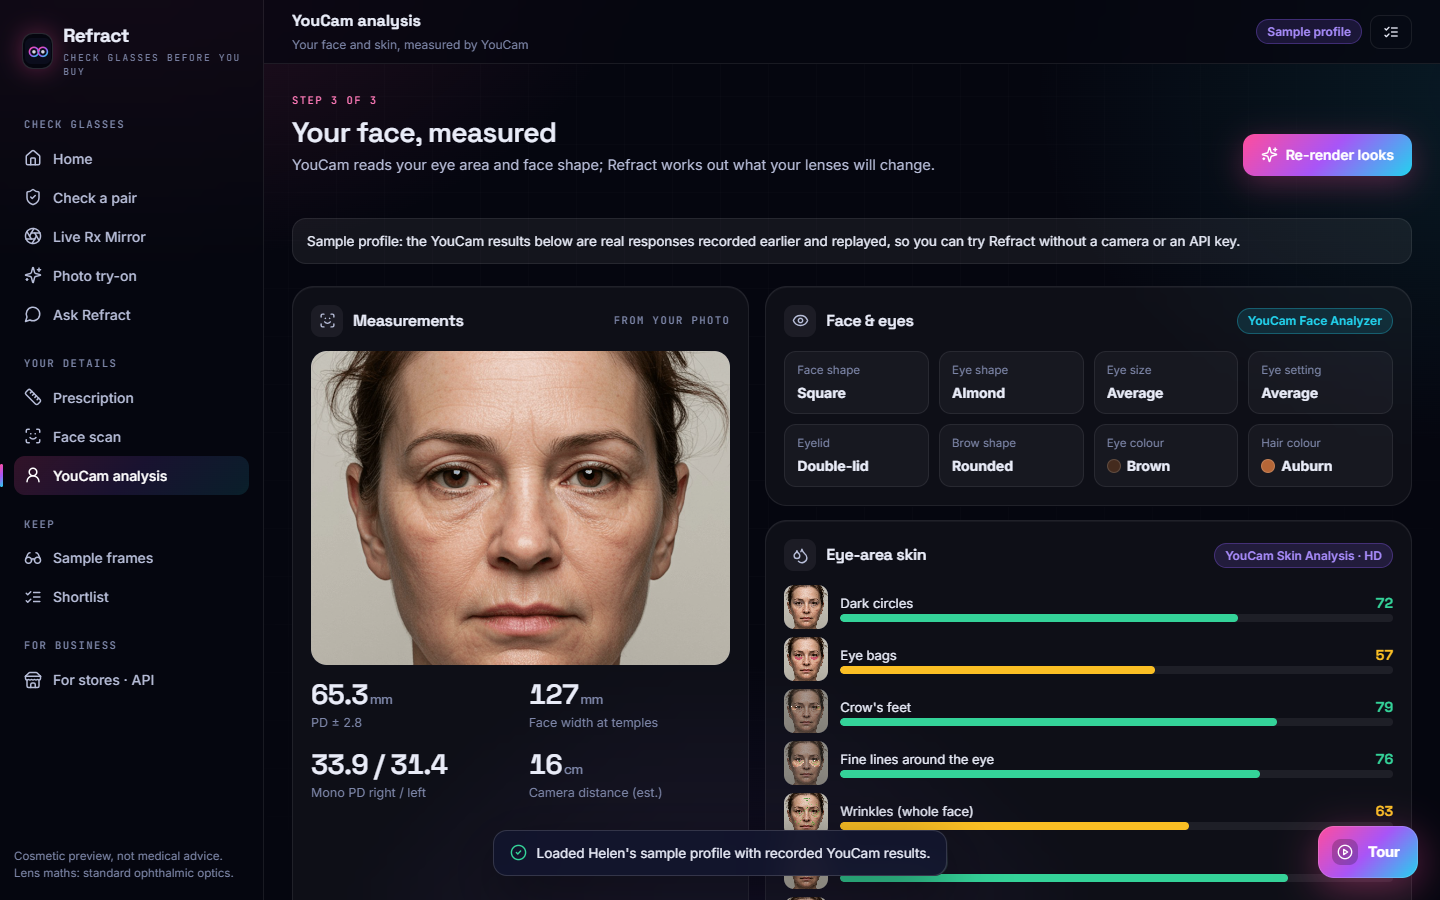
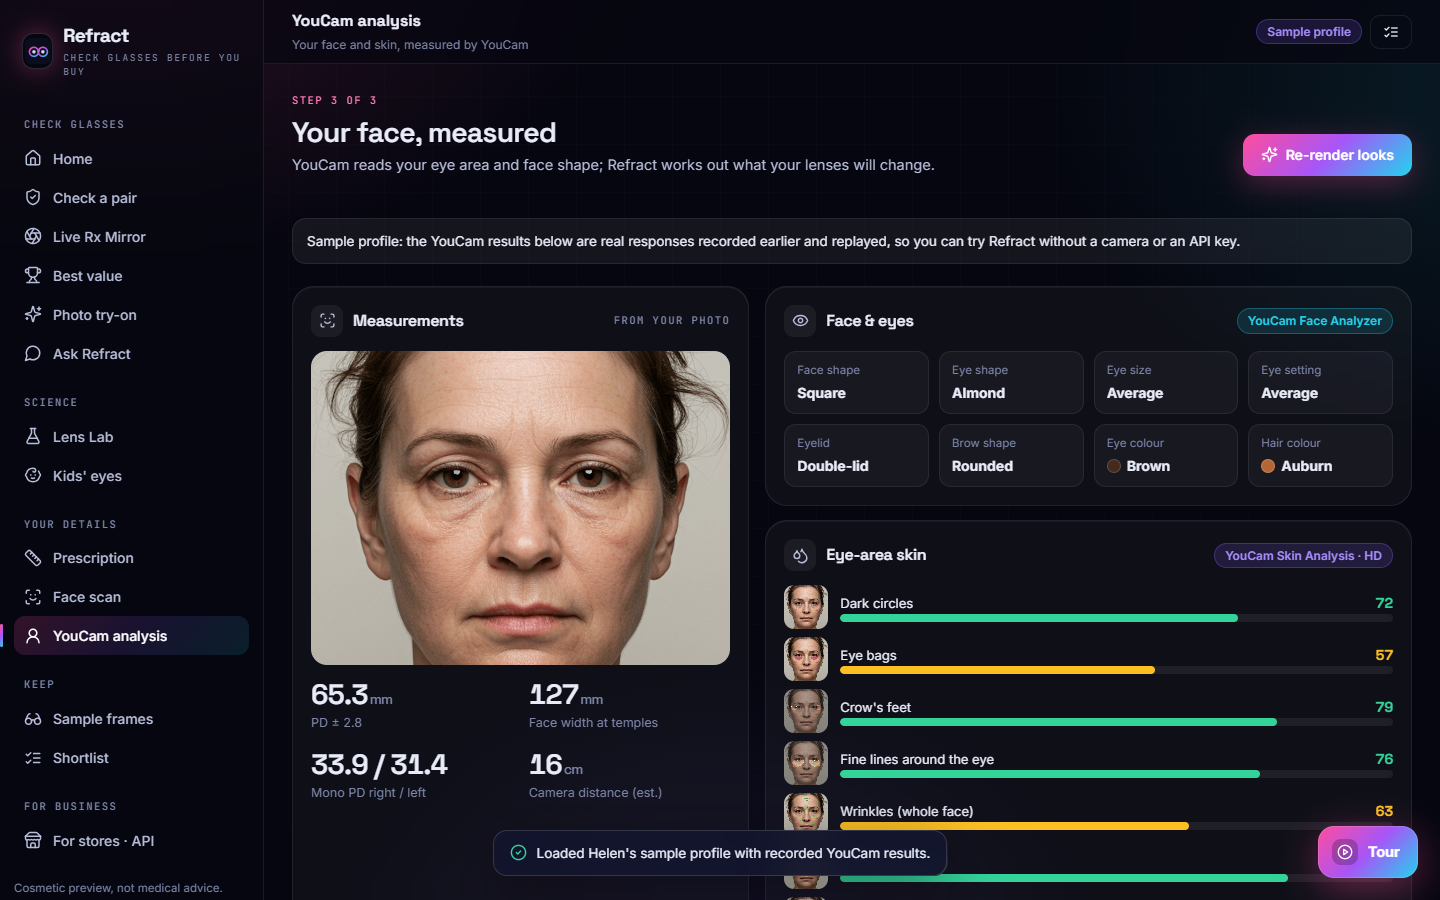
docs(v5): science section in README, constants and sources in EVIDENCE, gallery with Lens Lab, Kids' eyes, Best value, fit through the day and the science strip; static material picker

diff --git a/src/styles/lab.css b/src/styles/lab.css
@@ -1,7 +1,7 @@
 /* ---------- Lens Lab, Best value, Kids ---------- */
 .lab-svg { width: 100%; height: auto; display: block; }
 .lab-cap { font: 500 10.5px var(--font-mono); fill: var(--muted); }
-.lab-picker { display: flex; align-items: center; gap: 12px; flex-wrap: wrap; position: sticky; top: calc(var(--topbar) + 8px); z-index: 5; padding: 8px 12px; border-radius: 14px; background: rgba(5, 6, 15, 0.82); backdrop-filter: blur(10px); border: 1px solid var(--line); width: max-content; max-width: 100%; }
+.lab-picker { display: flex; align-items: center; gap: 12px; flex-wrap: wrap; padding: 8px 12px; border-radius: 14px; background: rgba(5, 6, 15, 0.82); backdrop-filter: blur(10px); border: 1px solid var(--line); width: max-content; max-width: 100%; }
 .lab-split { display: grid; grid-template-columns: minmax(0, 1.1fr) minmax(0, 1fr); gap: 22px; align-items: start; }
 .lab-split p { margin: 0; line-height: 1.6; }
 @media (max-width: 1000px) { .lab-split { grid-template-columns: minmax(0, 1fr); } }

diff --git a/docs/EVIDENCE.md b/docs/EVIDENCE.md
@@ -130,3 +130,64 @@ Frames carry "lens width □ bridge temple" on the arm (boxing system, mm). The 
 **Frame weight** is estimated per mm of lens width: metal 0.29 g, titanium 0.20 g, acetate 0.49 g (catalogue fit). Metal and titanium frames get adjustable pads; acetate gets a fixed bridge.
 
 **The bookmarklet** reads the size from the selected text, or else from the first size on the page. It reads shape and material from the selection, the page title and the `<h1>`. When no size is found, the app says so instead of guessing.
+
+## v5 science models (branch `v5-science`)
+
+Every constant below is in code (`src/engine/light.js`, `photochromic.js`, `myopia.js`, `climate.js`, `value.js`) and covered by unit tests. Where sources disagree or a value is a model assumption, it says so.
+
+### Light and lens materials (`light.js`)
+
+| Quantity | Model / value | Source |
+|---|---|---|
+| Reflection per surface | Fresnel, normal incidence: ((n−1)/(n+1))². 4.0% at 1.50, 5.3% at 1.60, 7.3% at 1.74 | Textbook optics |
+| Uncoated pair | 2R/(1+R) per lens (incoherent multiple reflections): 7.7% at 1.50, 13.6% at 1.74 | Textbook optics |
+| Thin films | Characteristic-matrix method at normal incidence | Macleod, *Thin-Film Optical Filters* |
+| AR design | Four SiO₂ (1.46) / ZrO₂ (2.05) layers, thicknesses found by coordinate descent minimizing daylight-weighted reflectance from 420 to 680 nm. Result: 0.13–0.17% per surface | Engine. Layer indices are handbook values. Trade sources give under 1% total for premium coatings |
+| Residual colour | CIE 1931 2° observer (Wyman, Sloan & Shirley 2013 multi-lobe fit), daylight as a 6504 K black body, sRGB | CIE; JCGT 2013 |
+| Dispersion | Cauchy n(λ) = A + B/λ², fitted to n_d and the Abbe number | Textbook optics |
+| Index vs Abbe | Lorentz–Lorenz: (n²−1)/(n²+2) is polarizability per volume. Sulfur and aromatic groups raise it, and the same UV-edge transitions raise dispersion | Liu & Ueda, *J Mater Chem* 2009; Mazumder et al., *ACS Omega* 2024 |
+| Materials | CR-39 1.50/58 · PC 1.59/30 · MR-8 1.60/41 · MR-7 1.67/31–32 · 1.74/32 | Mitsui MR datasheet |
+
+### Blue-light filters
+- **Evidence:** Singh et al., *Cochrane Database Syst Rev* 2023 (CD013244), 17 RCTs. They probably make no difference to short-term eye strain (low certainty). Results for sleep are inconsistent (very low certainty). There are no studies on macular health.
+- **How much they filter:** typical clear filters remove about 10–25% of blue light. Calculated phototoxicity falls by 10.6–23.6% (Leung et al., *PLoS ONE* 2017).
+
+### Photochromic lenses (`photochromic.js`)
+- **Model:**
+  - dc/dt = k_act·UV·(1−c) − k_fade(T)·c, with Arrhenius k_fade and Beer–Lambert transmission.
+  - Calibrated to Moon et al., *PLoS ONE* 2020 (12 lenses): fade half-lives of 38–198 s at 21 °C, and 2.7–5.4× slower at 6 °C.
+  - We model a fast lens: half-life 45 s at 21 °C and 261 s at 6 °C.
+- **Activation energy:** about 80 kJ/mol, because fading roughly triples per 10 °C. Dyes measured in solution give 63–82 kJ/mol. No value measured in a lens polymer was found.
+- **Windshields:** they block about 96% of UVA (Boxer Wachler, *JAMA Ophthalmol* 2016). Side windows block 44–96%.
+
+### Children's myopia (`myopia.js`)
+| Quantity | Value | Source |
+|---|---|---|
+| Progression at age 9.3, single vision | −0.82 D/yr Asian (CI 0.71–0.93), −0.55 D/yr European (0.39–0.72) | Donovan et al., *Optom Vis Sci* 2012 |
+| Slowing with age | 9.7% per year of age | Smotherman et al., *IOVS* 2023 (meta-regression abstract) |
+| Stabilization | Mean age 15.6 y, at −4.87 D. 48% stabilized by 15, 77% by 18 (logistic fit, applied from 13) | COMET, Hardy et al., *IOVS* 2013. The percentages come from a secondary source |
+| Parents | Two myopic parents meant about 1 D more at stabilization. Modelled as 13.5% faster per parent | COMET 2013 |
+| DIMS lenses | 52% less progression over 2 y; sustained to 6 y without rebound (small n) | Lam et al., *BJO* 2020; *Sci Rep* 2023 |
+| HAL lenses | 55% less over 2 y; 67% with ≥12 h/day wear (self-reported, sponsor-affiliated authors) | Bao et al., *JAMA Ophthalmol* 2022 |
+| Ortho-k | 43% less axial growth over 2 y | ROMIO, Cho & Cheung, *IOVS* 2012 |
+| Atropine 0.05% | 67% less progression over 1 y (0.01%: 27%, not significant for axial length) | LAMP, Yam et al., *Ophthalmology* 2019 |
+| Eye length | Emmetropic adult about 23.5 mm; about 2.5 D per mm (adults 2.9, children nearer 2) | Atchison et al., *IOVS* 2004; COMET |
+| Each dioptre | Maculopathy prevalence ×1.67 per D, so 1 D less is about 40% lower risk | Bullimore & Brennan, *Optom Vis Sci* 2019 (modelled from population data) |
+| Outdoor time | +40 min/day: incidence over 3 y 30.4% vs 39.5%; little effect once myopic | He et al., *JAMA* 2015; Wu et al., *Ophthalmology* 2013 |
+
+**Calibration check:** a European 9-year-old at −2 D projects to −4.87 D at 18, matching COMET's mean at stabilization. The trials ran 1–3 years; the forecast assumes their effect holds until progression stops.
+
+### Fit through the day (`climate.js`)
+- **Sebum and temperature:**
+  - Sebum excretion changes about 10% per °C of skin temperature (Cunliffe, Burton & Shuster, *Br J Dermatol* 1970, as quoted by Schaefer 1973).
+  - Seasonal direction is disputed (Youn 2005 vs Galzote 2014), so we use only temperature.
+- **Model assumption:** nose-skin temperature moves 0.3 °C per °C of air.
+- **Monte Carlo:**
+  - Each hour gets 300 seeded samples.
+  - Head pitch is drawn as N(20°, 12°), clipped to 0–55°; skin temperature varies ±1.5 °C.
+  - It reports the expected hours with slip margin below 1.
+- **Today's weather:** Open-Meteo hourly forecast, requested only on a click, with coordinates rounded to 0.1°.
+
+### Best value (`value.js`)
+- **Frontier:** the Pareto frontier of (frame + lens price, remake risk) over all 12 frames × 5 lenses.
+- **Knee:** the frontier point furthest from the chord between its ends, with both axes normalized.

diff --git a/README.md b/README.md
@@ -40,6 +40,17 @@ Built for the *YouCam API Skin AI & eCommerce VTO Hackathon* (eCommerce VTO trac
 | **Ask Refract** | An agent (Claude `claude-opus-5-5`, tool use) whose every number is a visible tool call to the same engine. Without a key, a built-in planner answers with the same tools. |
 | **Shortlist** | A lens report (frame, index, coatings, Rx, mono PD with tolerance, predicted edge) to take to any shop or optician, plus a shareable 1080×1350 card. |
 
+## The science inside (v5)
+
+| Page | What it computes |
+|---|---|
+| **Lens Lab** (`#/lab`) | **Physics:** ray-traced prism dispersion (Snell + Cauchy), Fresnel reflection, a transfer-matrix thin-film solver that designs a 4-layer SiO₂/ZrO₂ anti-reflective coating and shows its residual colour through the CIE 1931 observer. **Chemistry:** why sulfur makes lenses thin but colourful (Lorentz–Lorenz), and photochromic kinetics (UV activation, Arrhenius fade calibrated to measured lenses, windshield UV). **Evidence:** blue-light filters vs the 2023 Cochrane review. Each card ends in a verdict for your prescription. |
+| **Kids' eyes** (`#/kids`) | **Biology:** a child's myopia forecast to 18 from the Donovan 2012 meta-analysis, age slowing and COMET stabilization, with DIMS, HAL, ortho-k and atropine trial effects. Shows an animated growing eye and the glasses the child would wear, plus lifetime maculopathy risk per dioptre avoided. Calibrated: a European 9-year-old at −2 lands on COMET's −4.87 D. |
+| **Best value** (`#/value`) | **Math:** all 60 frame × lens combinations on a price/remake-risk plane, the Pareto frontier and its knee. |
+| **Fit through your day** (Check a pair) | **Skin biology + statistics:** sebum rises about 10% per °C of skin temperature, so a seeded Monte Carlo (head posture × temperature, 7,200 runs) shows when the frame creeps down, hour by hour. It can use today's forecast. |
+
+Constants, sources and caveats: [docs/EVIDENCE.md](docs/EVIDENCE.md#v5-science-models-branch-v5-science).
+
 ## YouCam APIs used
 
 All calls go through our server (the key never reaches the browser) on the India-reachable host `https://yce-api-01.makeupar.com`, using the full File API → task → poll flow:
@@ -66,7 +77,7 @@ About 35–40 units per full profile. The app keeps a units ledger, and the face
 npm install
 cp .env.example .env        # add YOUCAM_API_KEY (and optionally ANTHROPIC_API_KEY)
 npm run dev                 # http://localhost:5190 (app + API on one port)
-npm test                    # 97 tests: optics, sight, slip physics, remake risk, any-frame sizes, bookmarklet, PD, makeup, placement, API routes, MCP (real client), agent, limits
+npm test                    # 121 tests: optics, thin films, colour, dispersion, photochromic kinetics, myopia forecast, climate Monte Carlo, Pareto, sight, slip physics, remake risk, any-frame sizes, bookmarklet, PD, API, MCP, agent
 npm run mcp                 # MCP server over stdio for Claude / ChatGPT / any MCP client
 npm run build               # production build in dist/
 ```
